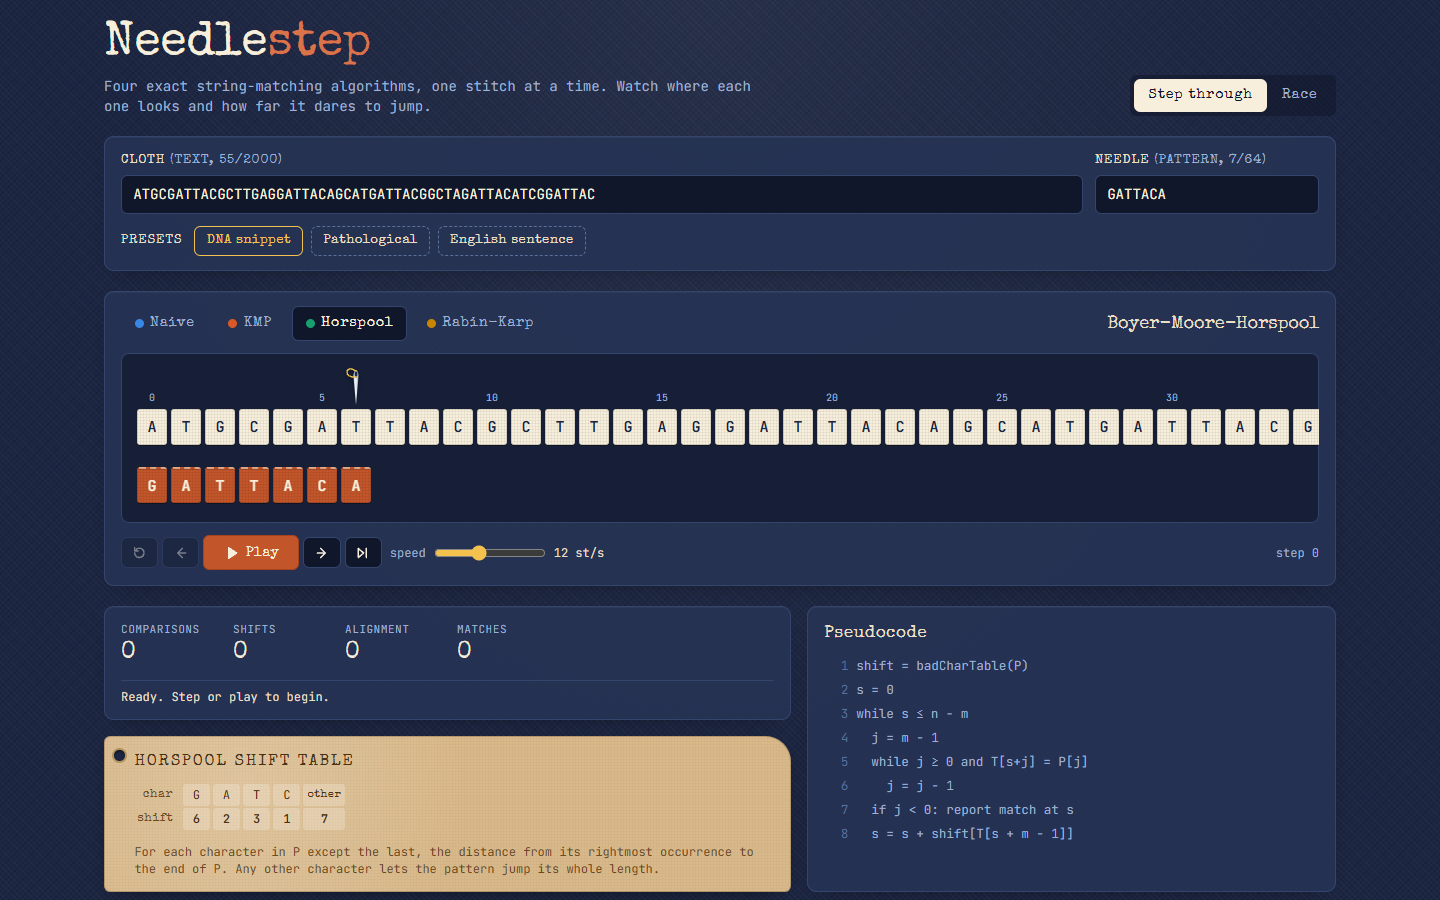
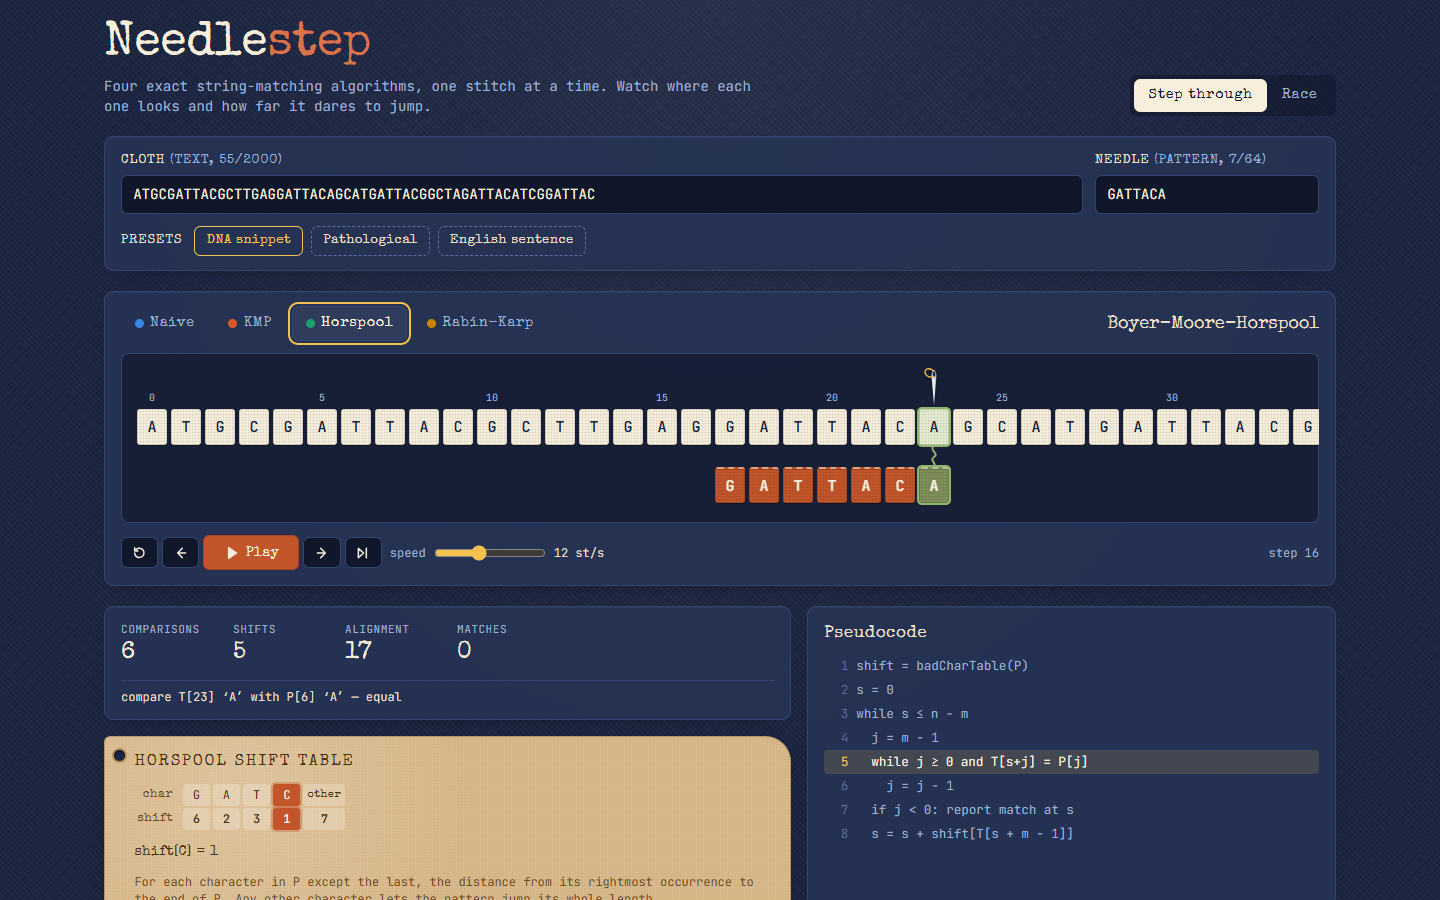
test: view-state reducer coverage; fix: centre the loom on narrow screens, add screenshot

diff --git a/src/ui/viewState.test.ts b/src/ui/viewState.test.ts
@@ -1,0 +1,54 @@
+import { describe, expect, it } from 'vitest'
+import { horspool, kmp, naive, rabinKarp, runToEnd } from '../core'
+import { INITIAL_VIEW, applyEvent, replay } from './viewState'
+
+describe('viewState', () => {
+  it('folds a full naive run into the same totals as runToEnd', () => {
+    const events = [...naive('aaaaaa', 'aaa')]
+    const view = replay(events, events.length)
+    const totals = runToEnd(events)
+    expect(view.comparisons).toBe(totals.comparisons)
+    expect(view.shifts).toBe(totals.shifts)
+    expect(view.matches).toEqual(totals.matches)
+    expect(view.shift).toBe(3)
+  })
+
+  it('carries known-matching cells forward on a KMP fallback', () => {
+    // 'AAAB' on 'AAAA': after matching AAA and failing on B, fail[2] = 2 cells stay matched.
+    const events = [...kmp('AAAAAAAA', 'AAAB')]
+    const firstFallback = events.findIndex((e) => e.type === 'shift' && e.lookup?.table === 'failure')
+    expect(firstFallback).toBeGreaterThan(0)
+    const view = replay(events, firstFallback + 1)
+    expect(view.shift).toBe(1)
+    expect(view.matched).toEqual([0, 1])
+    expect(view.lookup).toEqual({ table: 'failure', key: 2, value: 2 })
+    expect(view.cursor).toBeNull()
+  })
+
+  it('records the bad-character lookup Horspool used to shift', () => {
+    const events = [...horspool('zzzzabc', 'abc')]
+    const view = replay(events, 3) // compare, mismatch, shift
+    expect(view.mismatchAt).toBeNull()
+    expect(view.lookup).toEqual({ table: 'badChar', key: 'z', value: 3 })
+    expect(view.shift).toBe(3)
+  })
+
+  it('keeps the latest hash and counts spurious hits for Rabin-Karp', () => {
+    const events = [...rabinKarp('abracadabra', 'abra', { mod: 7 })]
+    const view = replay(events, events.length)
+    expect(view.hash?.type).toBe('hash')
+    expect(view.matches).toEqual([0, 7])
+    expect(view.spurious).toBe(runToEnd(events).spurious)
+  })
+
+  it('marks a mismatch and clears it on the next shift', () => {
+    let s = applyEvent(INITIAL_VIEW, { type: 'compare', shift: 0, i: 0, j: 0, equal: false, line: 2 })
+    expect(s.cursor).toEqual({ i: 0, j: 0, equal: false })
+    s = applyEvent(s, { type: 'mismatch', shift: 0, i: 0, j: 0, line: 2 })
+    expect(s.mismatchAt).toEqual({ i: 0, j: 0 })
+    s = applyEvent(s, { type: 'shift', from: 0, to: 1, by: 1, line: 5 })
+    expect(s.mismatchAt).toBeNull()
+    expect(s.matched).toEqual([])
+    expect(s.line).toBe(5)
+  })
+})
